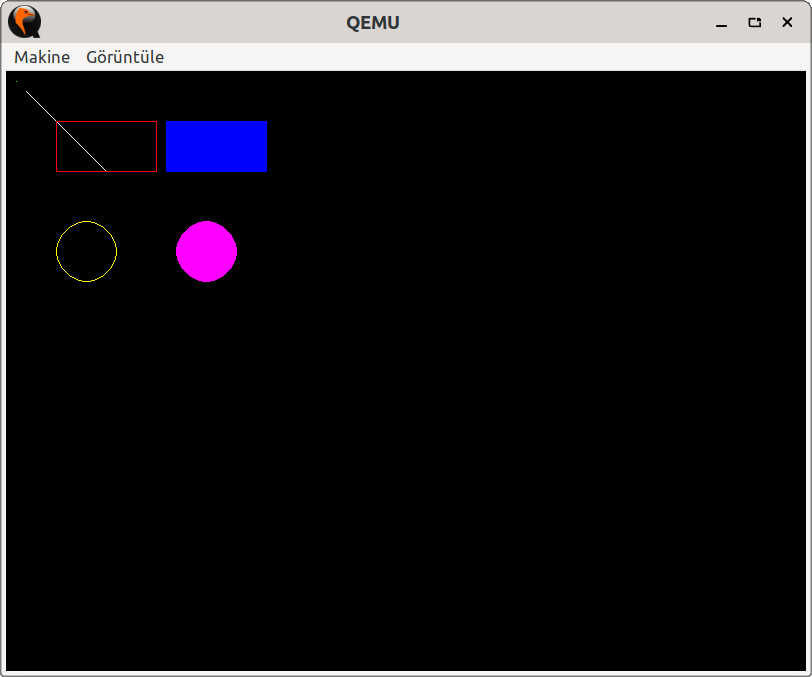
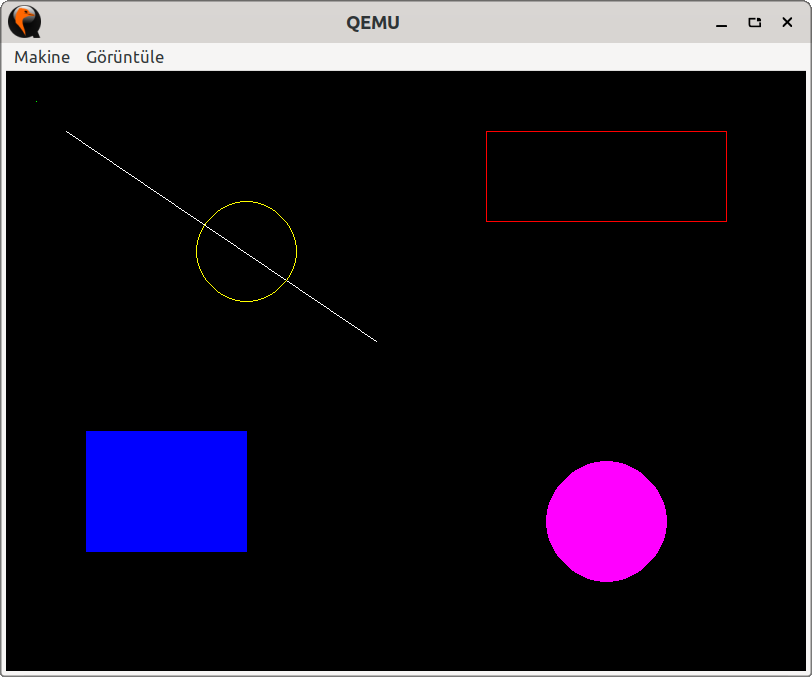
Update things drawn on the screen

diff --git a/init/main.c b/init/main.c
@@ -11,6 +11,14 @@ int main(void)
 {
     struct system_state state = init_system();
 
+    // Compute screen dimensions and a few helper sizes (relative layout)
+    int w = state.vinfo.xres;
+    int h = state.vinfo.yres;
+    int min_dim = (w < h) ? w : h;
+    int m = (min_dim > 0) ? (min_dim / 20) : 10;          // margin
+    int r_small = (min_dim > 0) ? (min_dim / 12) : 15;    // small radius
+    int r_big = (min_dim > 0) ? (min_dim / 10) : 20;      // big radius
+
     // Disable terminal echo
     struct termios oldt, newt;
     tcgetattr(STDIN_FILENO, &oldt);
@@ -28,23 +36,38 @@ int main(void)
             break;
         }
 
-        // Example: draw a pixel at (10, 10) with color 0x00FF00 (green)
-        putpixel(state.fbp, &state.vinfo, &state.finfo, 10, 10, 0x00, 0xFF, 0x00);
+        // Draw a pixel near top-left corner (green)
+        putpixel(state.fbp, &state.vinfo, &state.finfo, m, m, 0x00, 0xFF, 0x00);
 
-        // Example: draw a line from (20, 20) to (100, 100) with color 0xFFFFFF (white)
-        putline(state.fbp, &state.vinfo, &state.finfo, 20, 20, 100, 100, 0xFF, 0xFF, 0xFF);
+        // Draw a line from near top-left towards screen center (white)
+        putline(state.fbp, &state.vinfo, &state.finfo,
+            2 * m, 2 * m,
+            (w / 2) - m, (h / 2) - m,
+            0xFF, 0xFF, 0xFF);
 
-        // Example: draw a rectangle outline from (50, 50) to (150, 100) in red
-        putbox(state.fbp, &state.vinfo, &state.finfo, 50, 50, 150, 100, 0xFF, 0x00, 0x00);
+        // Draw a rectangle outline in the top-right area (red)
+        putbox(state.fbp, &state.vinfo, &state.finfo,
+            (w * 60) / 100, (h * 10) / 100,
+            (w * 90) / 100, (h * 25) / 100,
+            0xFF, 0x00, 0x00);
 
-        // Example: draw a filled rectangle from (160, 50) to (260, 100) in blue
-        putboxfilled(state.fbp, &state.vinfo, &state.finfo, 160, 50, 260, 100, 0x00, 0x00, 0xFF);
+        // Draw a filled rectangle in the left-middle area (blue)
+        putboxfilled(state.fbp, &state.vinfo, &state.finfo,
+                (w * 10) / 100, (h * 60) / 100,
+                (w * 30) / 100, (h * 80) / 100,
+                0x00, 0x00, 0xFF);
 
-        // Example: draw a circle outline at (80, 180) with radius 30 in yellow
-        putcircle(state.fbp, &state.vinfo, &state.finfo, 80, 180, 30, 0xFF, 0xFF, 0x00);
+        // Draw a circle outline in the upper-left quadrant (yellow)
+        putcircle(state.fbp, &state.vinfo, &state.finfo,
+            (w * 30) / 100, (h * 30) / 100,
+            r_small,
+            0xFF, 0xFF, 0x00);
 
-        // Example: draw a filled circle at (200, 180) with radius 30 in magenta
-        putcirclefilled(state.fbp, &state.vinfo, &state.finfo, 200, 180, 30, 0xFF, 0x00, 0xFF);
+        // Draw a filled circle in the bottom-right quadrant (magenta)
+        putcirclefilled(state.fbp, &state.vinfo, &state.finfo,
+                (w * 75) / 100, (h * 75) / 100,
+                r_big,
+                0xFF, 0x00, 0xFF);
 
         // Sleep for a while to avoid busy waiting
         sleep(1);
